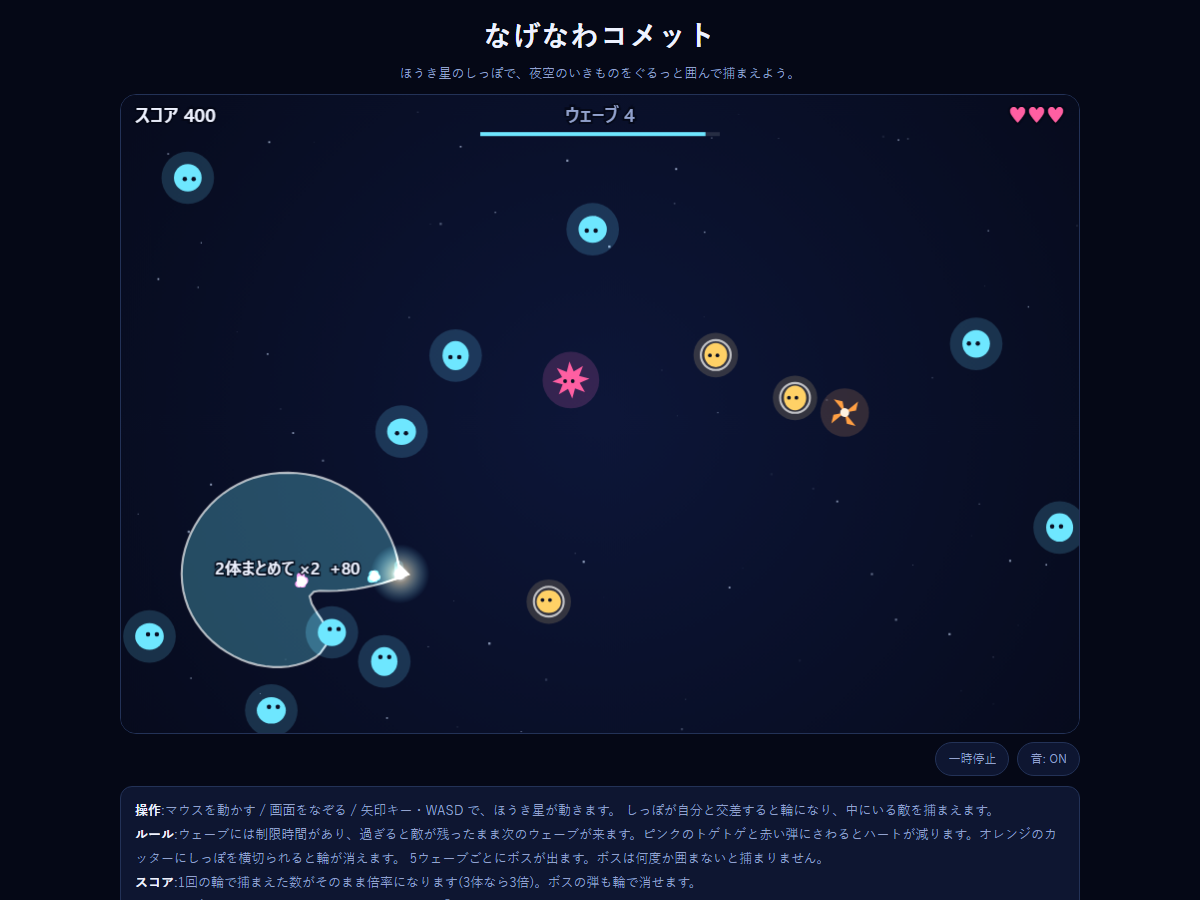
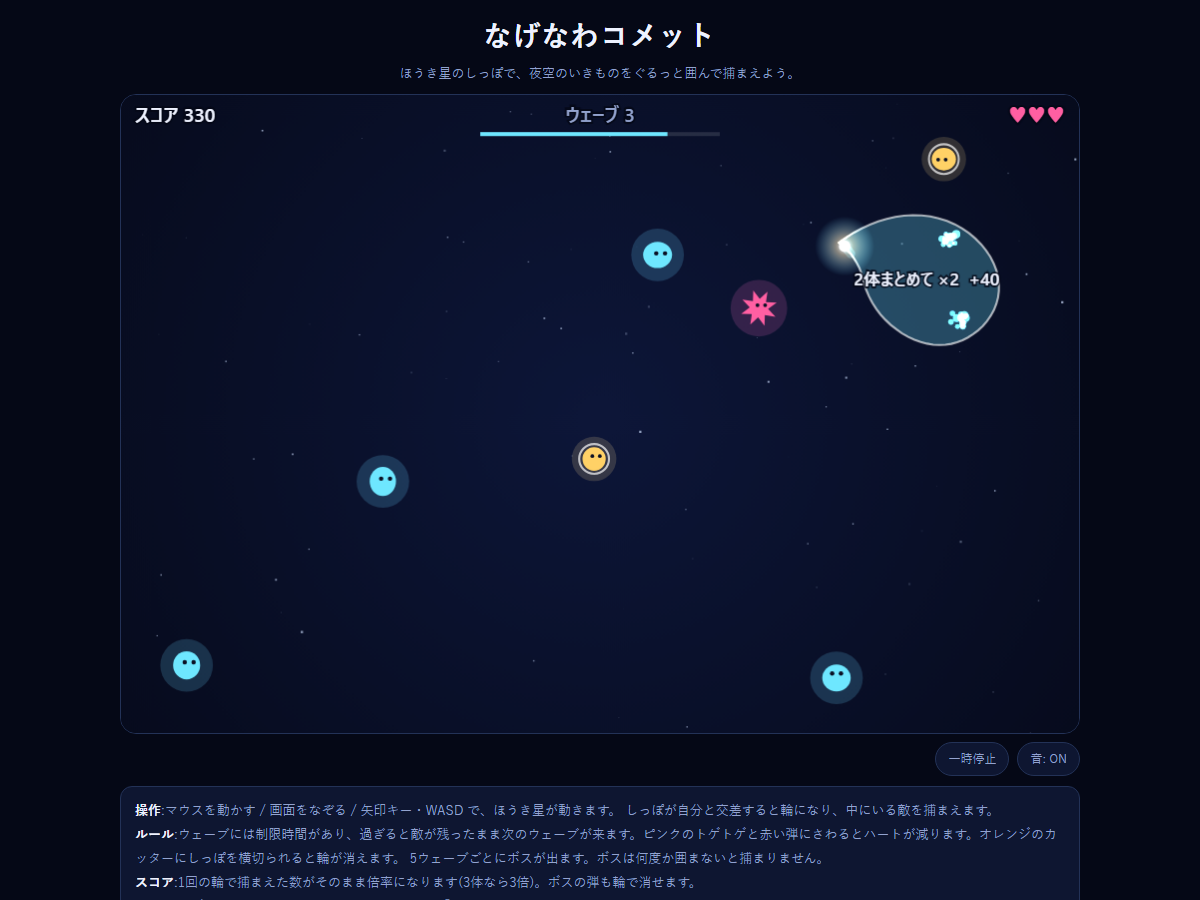
test: 「遊べるか」を確かめるプレイテストを導入し、テストをやり切る手順にする
- tests/play.spec.ts を追加(毎晩ゲームに合わせて書き直す)。
  自動プレイヤーで、核の遊び・進行・ゲームオーバーからのリトライ・保存を確かめ、
  1プレイの長さを計測し、見せ場の瞬間に投稿用スクショを撮る
- 元のバグを戻すと落ちることを確認済み(人が描く大きさの円で輪が閉じるかのテスト)
- ゲームに読み取り専用の window.gameTest を追加
- 修正上限を3回→10回、テストを弱めて通すのを禁止、夜の実行上限を3時間→5時間

diff --git a/tests/play.spec.ts b/tests/play.spec.ts
@@ -1,0 +1,207 @@
+import { test, expect, Page } from '@playwright/test';
+import path from 'node:path';
+import { pathToFileURL } from 'node:url';
+import { latestGame } from './latest';
+
+// ============================================================================
+//  プレイテスト: 今日のゲームの「核の遊び」が本当に機能するかを、実際に操作して確かめる。
+//  game.spec.ts は「エラーが出ないか」しか見ないので、遊べないゲームでも通ってしまう。
+//  このファイルはゲームごとに中身が違うので、毎回、今日のゲームに合わせて書き直す。
+//
+//  対象: なげなわコメット(2026-09-29)
+//  ゲーム側の window.gameTest(読み取り専用)から状態を読む。
+// ============================================================================
+
+const EXPECTED = '2026-09-29-nagenawa-comet';
+const target = latestGame();
+
+type Snap = {
+  W: number; H: number; S: number;
+  P: { x: number; y: number } | null;
+  enemies: { x: number; y: number; type: string }[];
+  bullets: { x: number; y: number }[];
+};
+
+const url = () => pathToFileURL(target!.html).href;
+const get = <T>(page: Page, fn: string) =>
+  page.evaluate((f) => (window as any).gameTest[f](), fn) as Promise<T>;
+const snap = (page: Page) => page.evaluate(() => (window as any).gameTest.snapshot()) as Promise<Snap>;
+
+async function start(page: Page) {
+  await page.goto(url());
+  await page.click('#btnStart');
+  await expect.poll(() => get<string>(page, 'state')).toBe('play');
+}
+
+// 人間に近いつもりの自動プレイヤー。
+// 敵のかたまりを選んで、動きを目で追いながら囲む。トゲ・ボス・弾が近いときは逃げる。
+// mode='suicide' のときは、わざとトゲやボスに当たりに行く(ゲームオーバーの確認用)。
+async function autoplay(page: Page, done: () => Promise<boolean>, limitMs: number, mode: 'hunt' | 'suicide' = 'hunt') {
+  const box = (await page.locator('#cv').boundingBox())!;
+  const t0 = Date.now();
+  let center: { x: number; y: number; big: boolean } | null = null;
+  let step = 0, a = 0;
+  while (Date.now() - t0 < limitMs) {
+    if (await done()) return true;
+    const d = await snap(page);
+    if (!d.P || d.enemies.length === 0) { await page.waitForTimeout(50); continue; }
+    const threats = [...d.enemies.filter((e) => e.type === 'spike' || e.type === 'boss'), ...d.bullets];
+
+    if (mode === 'suicide') {
+      if (threats[0]) await page.mouse.move(box.x + threats[0].x, box.y + threats[0].y);
+      await page.waitForTimeout(30);
+      continue;
+    }
+
+    let near: { x: number; y: number } | null = null, nd = Infinity;
+    for (const t of threats) {
+      const dd = Math.hypot(t.x - d.P.x, t.y - d.P.y);
+      if (dd < nd) { nd = dd; near = t; }
+    }
+    if (near && nd < 75 * d.S) {
+      const ax = d.P.x - near.x, ay = d.P.y - near.y, l = Math.hypot(ax, ay) || 1;
+      const tx = Math.max(20, Math.min(d.W - 20, d.P.x + (ax / l) * 140 * d.S));
+      const ty = Math.max(20, Math.min(d.H - 20, d.P.y + (ay / l) * 140 * d.S));
+      await page.mouse.move(box.x + tx, box.y + ty);
+      await page.waitForTimeout(16);
+      center = null;
+      continue;
+    }
+
+    if (!center || step > 36) {
+      let best = d.enemies[0], bc = -1;
+      for (const e of d.enemies) {
+        let c = 0;
+        for (const f of d.enemies) if (Math.hypot(e.x - f.x, e.y - f.y) < 110 * d.S) c++;
+        if (c > bc) { bc = c; best = e; }
+      }
+      center = { x: best.x, y: best.y, big: bc >= 3 };
+      a = Math.atan2(d.P.y - best.y, d.P.x - best.x);
+      step = 0;
+    }
+    let tgt = d.enemies[0], td = Infinity;
+    for (const e of d.enemies) {
+      const dd = Math.hypot(e.x - center.x, e.y - center.y);
+      if (dd < td) { td = dd; tgt = e; }
+    }
+    center.x += (tgt.x - center.x) * 0.5;
+    center.y += (tgt.y - center.y) * 0.5;
+    const R = (center.big ? 110 : 75) * d.S;
+    a += 0.19;
+    step++;
+    await page.mouse.move(box.x + center.x + Math.cos(a) * R, box.y + center.y + Math.sin(a) * R);
+    await page.waitForTimeout(16);
+  }
+  return done();
+}
+
+test.describe('プレイテスト', () => {
+  test.skip(target === null, 'games/ にまだゲームがありません');
+
+  test('このファイルが今日のゲーム用に書かれている', () => {
+    expect(
+      target!.name,
+      'tests/play.spec.ts が前のゲーム用のままです。今日のゲームに合わせて書き直してください',
+    ).toBe(EXPECTED);
+  });
+
+  test('テスト用の窓口 window.gameTest がある', async ({ page }) => {
+    await page.goto(url());
+    const ok = await page.evaluate(() => {
+      const g = (window as any).gameTest;
+      return !!g && ['state', 'score', 'wave', 'lives', 'shards', 'loops', 'lastCatch', 'snapshot'].every((k) => typeof g[k] === 'function');
+    });
+    expect(ok, 'window.gameTest が無いか、関数が足りません').toBeTruthy();
+  });
+
+  // 元のバグ(しっぽが短すぎて、ふつうの大きさの円では輪が閉じない)を捕まえるためのテスト。
+  // 敵の近くで小さく回るだけだと、しっぽが短くても輪が閉じてしまい見逃す。
+  test('人が描く大きさの円で輪が閉じる', async ({ page }) => {
+    test.setTimeout(60_000);
+    await start(page);
+    const box = (await page.locator('#cv').boundingBox())!;
+    const d = await snap(page);
+    const short = Math.min(d.W, d.H);
+    for (const rate of [0.10, 0.15, 0.20]) {
+      const r = short * rate;
+      const before = await get<number>(page, 'loops');
+      // 人の手の速さ(毎秒 約400px)で、1周と少し描く
+      const cx = d.W / 2, cy = d.H / 2, w = 400 / r, total = Math.PI * 2 * 1.15;
+      await page.mouse.move(box.x + cx + r, box.y + cy);
+      await page.waitForTimeout(400);
+      const t0 = Date.now();
+      for (let a = 0; a < total; a = ((Date.now() - t0) / 1000) * w) {
+        await page.mouse.move(box.x + cx + Math.cos(a) * r, box.y + cy + Math.sin(a) * r);
+        await page.waitForTimeout(16);
+      }
+      await page.waitForTimeout(300);
+      const after = await get<number>(page, 'loops');
+      console.log(`  半径 ${Math.round(r)}px(短辺の${rate * 100}%): 輪 ${after - before} 個`);
+      expect(after, `半径${Math.round(r)}pxの円を描いても輪が閉じません(しっぽが短すぎる可能性)`).toBeGreaterThan(before);
+    }
+  });
+
+  test('敵を囲むと得点が入る', async ({ page }) => {
+    test.setTimeout(90_000);
+    await start(page);
+    const t0 = Date.now();
+    const scored = await autoplay(page, async () => (await get<number>(page, 'score')) > 0, 40_000);
+    console.log(`  最初の得点まで: ${((Date.now() - t0) / 1000).toFixed(1)}秒`);
+    expect(scored, '40秒間、敵を追いかけて囲み続けても得点が入りません(輪が閉じていない可能性)').toBeTruthy();
+  });
+
+  test('1プレイを最後まで遊び、かけらをもらってリトライできる', async ({ page }, info) => {
+    test.skip(info.project.name !== 'desktop', '長いので desktop だけで行う');
+    test.setTimeout(9 * 60_000);
+    await page.setViewportSize({ width: 1200, height: 900 });
+    await start(page);
+
+    // 避けながら本気で遊んで、1プレイの長さを測る。
+    // 途中で「3種類以上の敵がいる中で、2体以上まとめて捕まえた瞬間」が来たら、投稿用のスクショを撮る。
+    let shot = false;
+    const isOver = async () => {
+      if (!shot) {
+        const c = await get<{ n: number; ago: number }>(page, 'lastCatch');
+        if (c.n >= 2 && c.ago < 0.3 && (await get<number>(page, 'wave')) >= 3) {
+          const s = await snap(page);
+          if (new Set(s.enemies.map((e) => e.type)).size >= 3 && s.enemies.length >= 6) {
+            await page.screenshot({ path: path.join(target!.dir, 'screenshot.png') });
+            shot = true;
+            console.log('  見せ場のスクショを撮りました');
+          }
+        }
+      }
+      return (await get<string>(page, 'state')) === 'over';
+    };
+    const t0 = Date.now();
+    let over = await autoplay(page, isOver, 6 * 60_000);
+    const secs = Math.round((Date.now() - t0) / 1000);
+    if (!over) over = await autoplay(page, isOver, 60_000, 'suicide');
+    expect(over, 'ゲームオーバーになりません').toBeTruthy();
+
+    const score = await get<number>(page, 'score');
+    const wave = await get<number>(page, 'wave');
+    console.log(`  1プレイの計測: ${secs}秒 / ウェーブ${wave} / スコア${score}`);
+    expect(wave, 'ウェーブが進んでいません').toBeGreaterThanOrEqual(3);
+
+    // 結果画面
+    await expect(page.locator('#veil')).toBeVisible({ timeout: 5000 });
+    await expect(page.locator('#btnStart')).toHaveText('リトライ');
+    const shards = await get<number>(page, 'shards');
+    expect(shards, 'かけらの数がスコアと合いません').toBe(Math.floor(score / 15));
+
+    // 再読み込みしても残る
+    await page.reload();
+    expect(await get<number>(page, 'shards'), 'かけらが保存されていません').toBe(shards);
+
+    // 強化を買える(最初の強化は30個)
+    if (shards >= 30) {
+      await page.locator('.buy').first().click();
+      expect(await get<number>(page, 'shards'), '強化を買えません').toBe(shards - 30);
+    }
+
+    // リトライ
+    await page.click('#btnStart');
+    await expect.poll(() => get<string>(page, 'state')).toBe('play');
+  });
+});

diff --git a/games/2026-09-29-nagenawa-comet/index.html b/games/2026-09-29-nagenawa-comet/index.html
@@ -304,7 +304,7 @@
   var inv = 0, shake = 0, flash = 0, flashColor = '255,255,255';
   var slowT = 0, bannerT = 0, bannerText = '', nextWaveT = 0, overT = 0, hintT = 0, time = 0;
   var waveT = 0, waveMax = 1;
-  var bestCombo = 0, caughtTotal = 0, lastResult = null;
+  var bestCombo = 0, caughtTotal = 0, lastResult = null, loopCount = 0, lastCatchN = 0, lastCatchAt = -99;
   var target = { x: 0, y: 0, on: false };
   var keys = {};
 
@@ -598,6 +598,7 @@
 
   function closeLoop(poly) {
     var caught = [], bossHit = false, i;
+    loopCount++;
     for (i = enemies.length - 1; i >= 0; i--) {
       var e = enemies[i];
       if (!inPoly(e.x, e.y, poly)) { continue; }
@@ -648,6 +649,8 @@
     var gain = sum * mult + bcount * 2;
     score += gain;
     caughtTotal += mult;
+    lastCatchN = mult;
+    lastCatchAt = time;
     if (mult > bestCombo) { bestCombo = mult; }
     var label = mult > 1 ? mult + '体まとめて ×' + mult + '  +' + gain : '+' + gain;
     popText(c.x, c.y, label, mult >= 3 ? '#ffd166' : '#eef2ff', mult >= 3 ? 1.5 : 1);
@@ -686,7 +689,7 @@
     maxLives = 3 + lv('heart');
     lives = maxLives;
     inv = 0; shake = 0; flash = 0; slowT = 0; overT = 0; nextWaveT = 0;
-    bestCombo = 0; caughtTotal = 0;
+    bestCombo = 0; caughtTotal = 0; loopCount = 0;
     hintT = save.runs === 0 ? 8 : 0;
     state = 'play';
     veil.classList.add('hide');
@@ -1255,6 +1258,27 @@
   document.addEventListener('visibilitychange', function () {
     if (document.hidden) { pause(); }
   });
+
+  // ================================================================
+  //  テスト用の窓口(読み取り専用。ゲームの中身は変えられない)
+  // ================================================================
+  window.gameTest = {
+    state: function () { return state; },
+    score: function () { return score; },
+    wave: function () { return wave; },
+    lives: function () { return lives; },
+    shards: function () { return save.shards; },
+    loops: function () { return loopCount; },
+    lastCatch: function () { return { n: lastCatchN, ago: time - lastCatchAt }; },
+    snapshot: function () {
+      return {
+        W: W, H: H, S: S,
+        P: P ? { x: P.x, y: P.y } : null,
+        enemies: enemies.map(function (e) { return { x: e.x, y: e.y, type: e.type }; }),
+        bullets: bullets.map(function (b) { return { x: b.x, y: b.y }; })
+      };
+    }
+  };
 
   // ================================================================
   //  はじめる

diff --git a/tests/game.spec.ts b/tests/game.spec.ts
@@ -2,24 +2,7 @@ import { test, expect } from '@playwright/test';
 import fs from 'node:fs';
 import path from 'node:path';
 import { pathToFileURL } from 'node:url';
-
-// games/ の中で一番新しい(名前順で最後の)フォルダを対象にする。
-// フォルダ名は 投稿日-slug なので、名前順 = 日付順になる。
-const GAMES_DIR = path.join(__dirname, '..', 'games');
-
-function latestGame(): { name: string; dir: string; html: string } | null {
-  if (!fs.existsSync(GAMES_DIR)) return null;
-  const names = fs
-    .readdirSync(GAMES_DIR, { withFileTypes: true })
-    .filter((e) => e.isDirectory())
-    .map((e) => e.name)
-    .filter((n) => fs.existsSync(path.join(GAMES_DIR, n, 'index.html')))
-    .sort();
-  if (names.length === 0) return null;
-  const name = names[names.length - 1];
-  const dir = path.join(GAMES_DIR, name);
-  return { name, dir, html: path.join(dir, 'index.html') };
-}
+import { latestGame } from './latest';
 
 const target = latestGame();
 

diff --git a/tests/latest.ts b/tests/latest.ts
@@ -1,0 +1,20 @@
+import fs from 'node:fs';
+import path from 'node:path';
+
+// games/ の中で一番新しい(名前順で最後の)フォルダを返す。
+// フォルダ名は 投稿日-slug なので、名前順 = 日付順になる。
+const GAMES_DIR = path.join(__dirname, '..', 'games');
+
+export function latestGame(): { name: string; dir: string; html: string } | null {
+  if (!fs.existsSync(GAMES_DIR)) return null;
+  const names = fs
+    .readdirSync(GAMES_DIR, { withFileTypes: true })
+    .filter((e) => e.isDirectory())
+    .map((e) => e.name)
+    .filter((n) => fs.existsSync(path.join(GAMES_DIR, n, 'index.html')))
+    .sort();
+  if (names.length === 0) return null;
+  const name = names[names.length - 1];
+  const dir = path.join(GAMES_DIR, name);
+  return { name, dir, html: path.join(dir, 'index.html') };
+}

diff --git a/CLAUDE.md b/CLAUDE.md
@@ -28,10 +28,25 @@
    - 3日先までキューが埋まっている場合は、ゲームを作らずに手順9へ進む(ストックは十分)
 3. 過去作と被らないゲームのアイデアを1つ決める(ジャンル・テーマ・操作のうち2つ以上を変える)
 4. `games/投稿日-slug/index.html` にゲームを実装する(ルールは3章。slugは英小文字とハイフン)
-5. `npx playwright test` を実行する(一番新しい `games/` のフォルダが自動でテストされ、`screenshot.png` も自動で保存される)
-6. テスト結果で分岐する
+5. テストを書いて、実行する(**「エラーが出ない」ではなく「遊べる」を確かめる**)
+   - `tests/play.spec.ts` を今日のゲーム用に書き直す(前のゲーム用のままだと自動で失敗する)。
+     実際に操作して、少なくとも次を確かめる:
+     - 核の遊びが機能する(例: 敵を囲むと得点が入る)。**人がふつうに操作する大きさ・速さで**確かめる
+     - 進行する(ステージやウェーブが進む、だんだん難しくなる)
+     - 終わり(ゲームオーバーやクリア)にたどり着き、リトライで遊び直せる
+     - 保存があるなら、再読み込みしても残る
+     - 1プレイの長さを計測して `console.log` に出す(devlog の数字に使う)
+     - 見せ場の瞬間に `screenshot.png` を撮り直す(投稿画像になる)
+   - 書いたテストが本当にバグを見つけられるか確かめる。核の部分を一度わざと壊して、
+     テストが落ちることを見る。確かめたら**必ず元に戻す**
+   - 最後に `npx playwright test` で全部を通す(`game.spec.ts` と `play.spec.ts` の両方が走る)
+   - 書き直すときは、前日の `tests/play.spec.ts` の書き方(自動プレイヤーや `window.gameTest` の使い方)を見本にしてよい
+6. テスト結果で分岐する(**なるべくやり切る**)
    - 成功: そのまま次へ
-   - 3回修正しても失敗: そのフォルダを削除し、`game_url` と `screenshot` を空にした「失敗報告」のキューを作る(失敗もネタとして扱う)
+   - 失敗: 原因を調べて直し、もう一度テストする。**最大10回**まで繰り返す
+   - 5回直しても通らないときは、要素を削って作りを簡単にする方向で直す(凝った仕組みより、動く素朴な仕組み)
+   - 10回直しても通らないとき: そのフォルダを削除し、`game_url` と `screenshot` を空にした「失敗報告」のキューを作る(失敗もネタとして扱う)
+   - **テストを弱めて通すことはしない**。期待値を下げる・テストを消す・skip する、はどれも禁止
 7. 投稿文を `data/queue/投稿日.json` に書き出す(形式は8章)
 8. `data/history.json` に作品情報を追記する(形式は9章)
 9. 日曜日なら「5. 週次ふりかえり」を行う
@@ -51,6 +66,7 @@
   - 大作枠はジャンルのローテーションに縛られない。ジャンルは自由で、遊べる時間は長いほど良い
   (どちらも行数を使い切ることを目標にしない。増えた理由を devlog で説明できる範囲で使う)
 - グラフィックは図形・絵文字・Canvas描画で作る
+- テスト用の窓口として `window.gameTest` を用意する。**読み取り専用**で、最低限 `state()` と `score()`、ほかに核の遊びを確かめるのに必要な値(敵の位置など)を返す関数を置く。ゲームの結果を変える機能は入れない
 
 ### 禁止
 - 既存作品のキャラクター・タイトル・ロゴ・ブランド名の使用や、特定の有名ゲームの名前を出した再現
